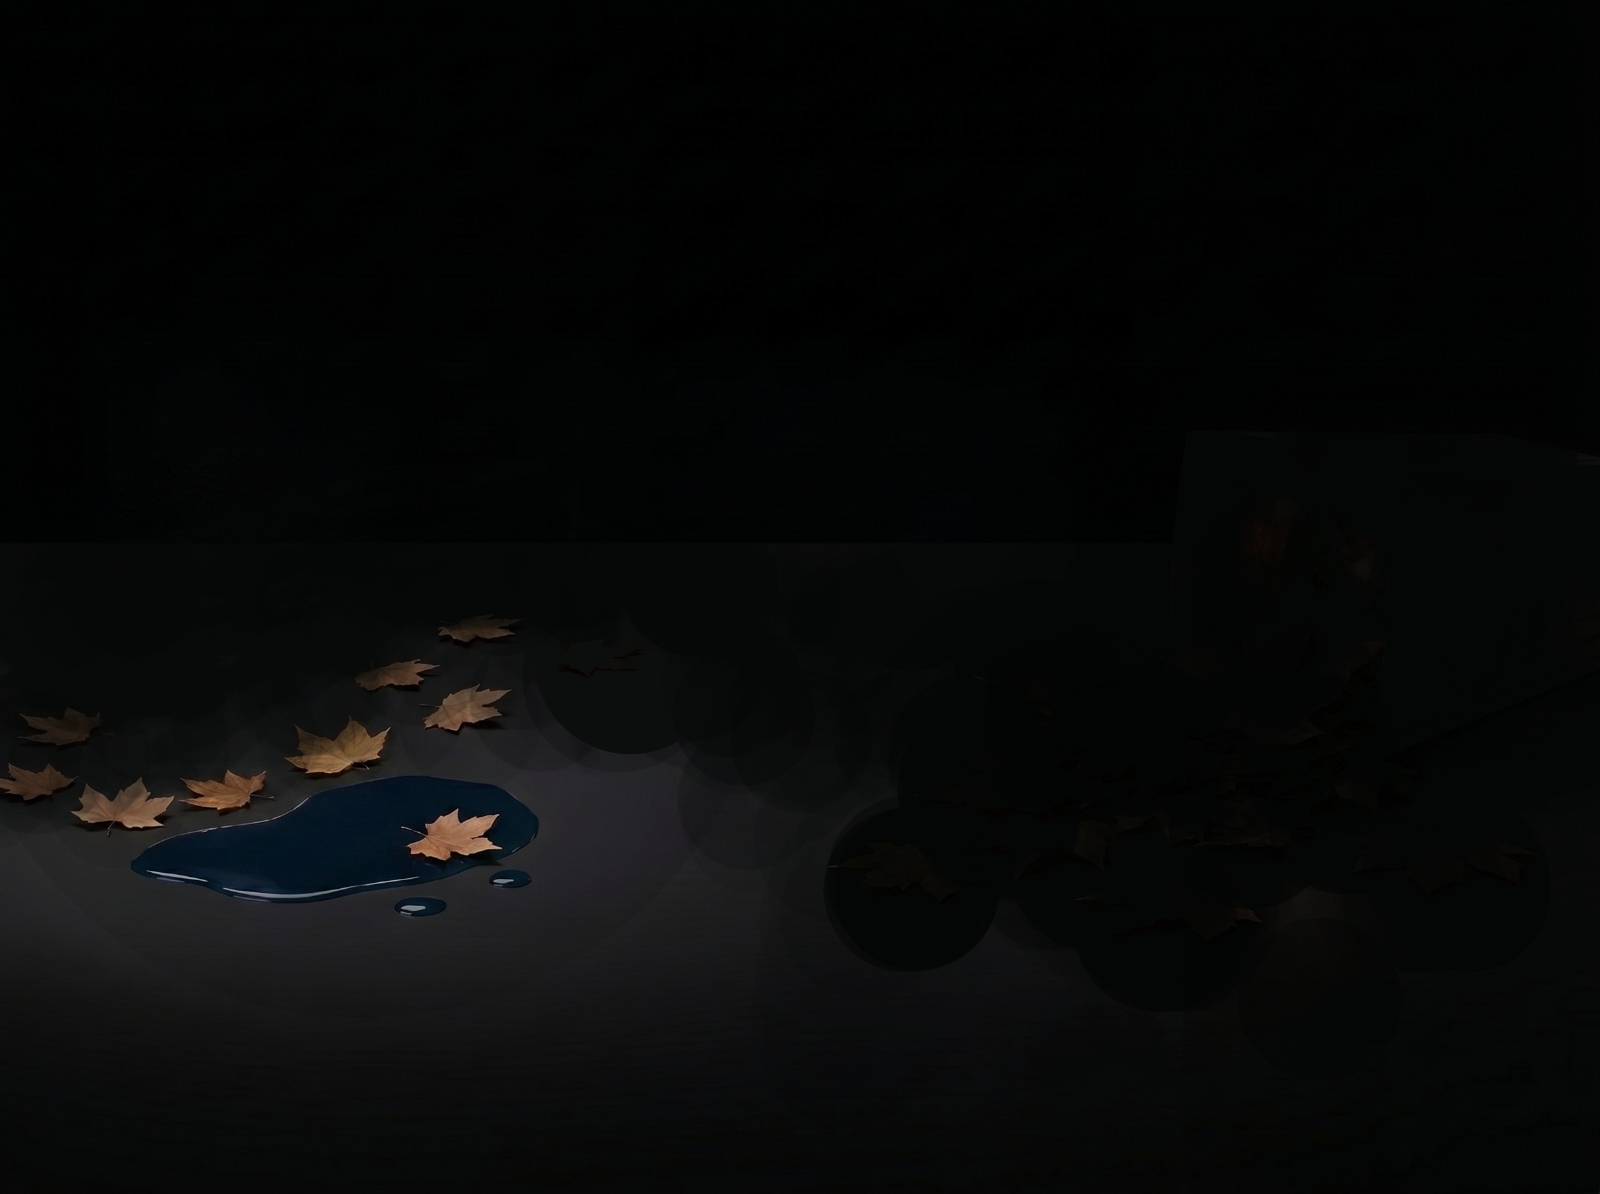
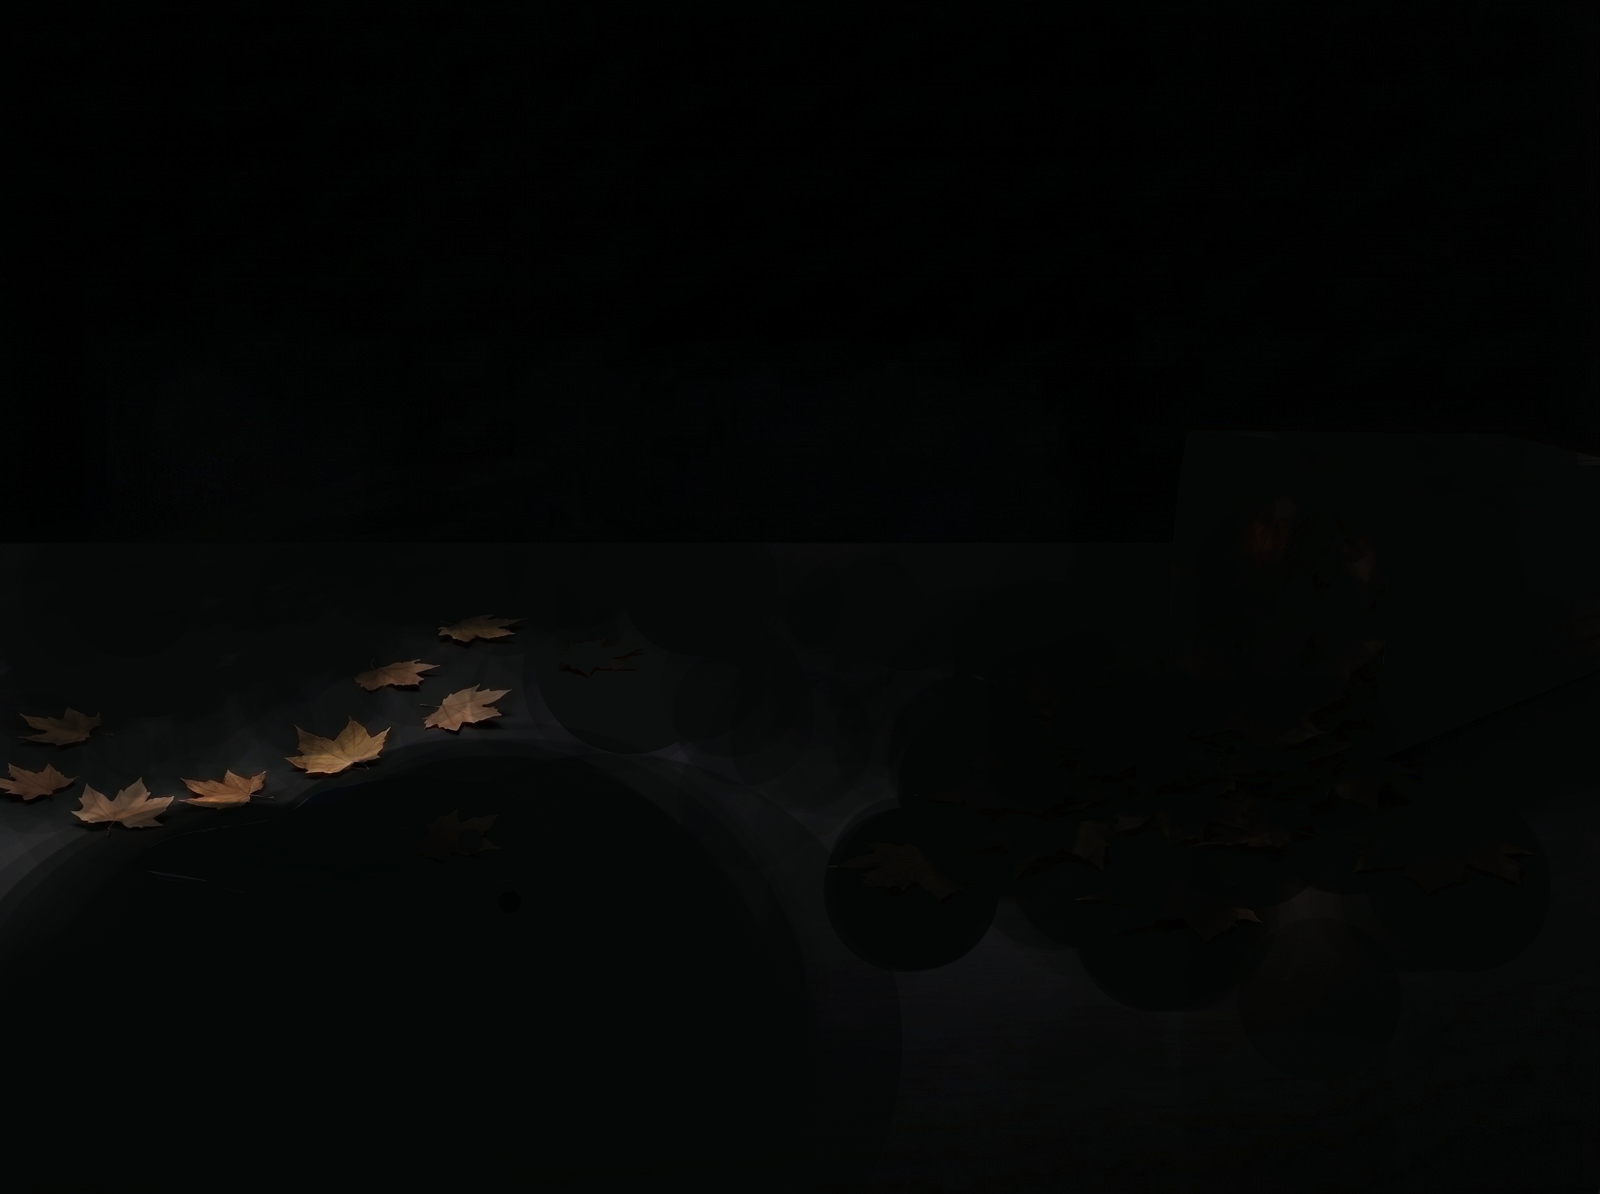
Pushing Nodemailer migration, SEO files, and GSC ownership verification

Changed region(s): [[0.0, 0.6198, 0.4688, 0.8367]]

diff --git a/app/api/feedback/route.ts b/app/api/feedback/route.ts
@@ -1,8 +1,6 @@
 import { NextResponse } from 'next/server';
-import { Resend } from 'resend';
+import nodemailer from 'nodemailer';
 import { supabase } from '../../../lib/supabaseClient';
-
-const resend = new Resend(process.env.RESEND_API_KEY);
 
 export async function POST(req: Request) {
   try {
@@ -18,10 +16,18 @@ export async function POST(req: Request) {
       return NextResponse.json({ error: 'Failed to store feedback: ' + supabaseError.message }, { status: 500 });
     }
 
-    // 2. Send email via Resend
-    const { data, error: resendError } = await resend.emails.send({
-      from: 'MemoryPrint Feedback <[email redacted]>', // Resend testing domain
-      to: ['[email redacted]'],
+    // 2. Send email via Nodemailer
+    const transporter = nodemailer.createTransport({
+      service: 'gmail',
+      auth: {
+        user: process.env.GMAIL_USER,
+        pass: process.env.GMAIL_APP_PASSWORD,
+      },
+    });
+
+    const mailOptions = {
+      from: `"MemoryPrint Feedback" <${process.env.GMAIL_USER}>`,
+      to: ['[email redacted]', '[email redacted]'],
       subject: 'New Feedback Received - MemoryPrint',
       html: `
         <h2>New Feedback Submission</h2>
@@ -33,14 +39,15 @@ export async function POST(req: Request) {
           ${message || 'No message provided'}
         </blockquote>
       `,
-    });
+    };
 
-    if (resendError) {
-      console.error('Resend error:', resendError);
-      return NextResponse.json({ error: 'Email failed: ' + resendError.message }, { status: 500 });
+    try {
+      const info = await transporter.sendMail(mailOptions);
+      return NextResponse.json({ success: true, data: info.messageId });
+    } catch (mailError: any) {
+      console.error('Nodemailer error:', mailError);
+      return NextResponse.json({ error: 'Email failed: ' + mailError.message }, { status: 500 });
     }
-
-    return NextResponse.json({ success: true, data });
   } catch (error) {
     console.error('API Error:', error);
     return NextResponse.json({ error: 'Internal Server Error' }, { status: 500 });

diff --git a/app/layout.tsx b/app/layout.tsx
@@ -48,8 +48,34 @@ const satisfy = Satisfy({
 });
 
 export const metadata: Metadata = {
-  title: "MemoryPrint — Your Polaroid Moments",
-  description: "Capture, print, and collect your Polaroid memories.",
+  title: {
+    template: '%s | MemoryPrint',
+    default: 'MemoryPrint - The Virtual Photo Booth',
+  },
+  description: 'An immersive, interactive virtual photo booth and digital memory board. Capture, customize, and save digital polaroids directly in your browser.',
+  keywords: ['virtual photo booth', 'digital polaroids', 'online scrapbooking', 'polaroid frame', 'photo strips'],
+  openGraph: {
+    title: 'MemoryPrint',
+    description: 'Bring the nostalgic charm of Polaroid cameras to your browser.',
+    url: 'https://memoryprint.app', // Using .app or whatever they host on
+    siteName: 'MemoryPrint',
+    images: [
+      {
+        url: '/og-image.png',
+        width: 1200,
+        height: 630,
+        alt: 'MemoryPrint Virtual Photo Booth',
+      },
+    ],
+    locale: 'en_US',
+    type: 'website',
+  },
+  twitter: {
+    card: 'summary_large_image',
+    title: 'MemoryPrint',
+    description: 'Capture, customize, and save digital polaroids directly in your browser.',
+    images: ['/og-image.png'],
+  },
 };
 
 export const viewport: Viewport = {
@@ -58,6 +84,8 @@ export const viewport: Viewport = {
   maximumScale: 1,
   viewportFit: "cover",
 };
+
+import { GoogleAnalytics } from '@next/third-parties/google';
 
 export default function RootLayout({
   children,
@@ -70,6 +98,7 @@ export default function RootLayout({
       className={`${geistSans.variable} ${geistMono.variable} ${patrickHand.variable} ${caveat.variable} ${permanentMarker.variable} ${indieFlower.variable} ${shadowsIntoLight.variable} ${satisfy.variable} h-full antialiased`}
     >
       <body className="min-h-full flex flex-col" suppressHydrationWarning>{children}</body>
+      <GoogleAnalytics gaId={process.env.NEXT_PUBLIC_GA_ID || "G-XXXXXXXXXX"} />
     </html>
   );
 }

diff --git a/app/fridge/page.tsx b/app/fridge/page.tsx
@@ -517,30 +517,7 @@ export default function FridgePage() {
     );
   }, [preset]);
 
-  useEffect(() => {
-    let lastShake = 0;
-    const threshold = 25;
-    const handleMotion = (e: DeviceMotionEvent) => {
-      const acc = e.accelerationIncludingGravity;
-      if (!acc) return;
-      const total = Math.abs(acc.x ?? 0) + Math.abs(acc.y ?? 0) + Math.abs(acc.z ?? 0);
-      if (total > threshold && Date.now() - lastShake > 1000) {
-        lastShake = Date.now();
-        shuffleCards();
-      }
-    };
-    const requestPermission = async () => {
-      if (typeof (DeviceMotionEvent as unknown as { requestPermission?: () => Promise<string> }).requestPermission === "function") {
-        try {
-          const result = await (DeviceMotionEvent as unknown as { requestPermission: () => Promise<string> }).requestPermission();
-          if (result !== "granted") return;
-        } catch { return; }
-      }
-      window.addEventListener("devicemotion", handleMotion);
-    };
-    requestPermission();
-    return () => window.removeEventListener("devicemotion", handleMotion);
-  }, [shuffleCards]);
+
 
   const handleSaveNote = async () => {
     const validTexts = noteTexts.filter((t) => t.text.trim());

diff --git a/app/sitemap.ts b/app/sitemap.ts
@@ -1,0 +1,20 @@
+import { MetadataRoute } from 'next'
+
+export default function sitemap(): MetadataRoute.Sitemap {
+  const baseUrl = 'https://memoryprint.app' // Assuming .app, change if hosted elsewhere!
+
+  return [
+    {
+      url: baseUrl,
+      lastModified: new Date(),
+      changeFrequency: 'monthly',
+      priority: 1.0, // Most important page
+    },
+    {
+      url: `${baseUrl}/fridge`,
+      lastModified: new Date(),
+      changeFrequency: 'weekly',
+      priority: 0.8, // Secondary page
+    },
+  ]
+}

diff --git a/app/robots.ts b/app/robots.ts
@@ -1,0 +1,13 @@
+import { MetadataRoute } from 'next'
+
+export default function robots(): MetadataRoute.Robots {
+  return {
+    rules: {
+      userAgent: '*', // '*' means these rules apply to all bots (Google, Bing, etc.)
+      allow: '/',
+      // Disallow any private API routes so bots don't hit them
+      disallow: ['/api/', '/private/'], 
+    },
+    sitemap: 'https://memoryprint.app/sitemap.xml', // Point bots directly to your sitemap
+  }
+}

diff --git a/app/page.tsx b/app/page.tsx
@@ -3,6 +3,7 @@
 import { useState, useRef, useCallback, useEffect, useMemo } from "react";
 import { motion, AnimatePresence } from "framer-motion";
 import Link from "next/link";
+import { sendGAEvent } from '@next/third-parties/google';
 
 function ConfettiBurst() {
   const pieces = useMemo(() => Array.from({ length: 40 }, (_, i) => {
@@ -435,6 +436,7 @@ export default function Home() {
   };
 
   const handleDownload = () => {
+    sendGAEvent('event', 'download_polaroid', { frame_used: frameColor });
     if (boothPhotos.length > 0) {
       handleStripDownload();
       return;
@@ -1805,7 +1807,10 @@ export default function Home() {
                 {FRAME_COLORS.map((f) => (
                   <button
                     key={f.key}
-                    onClick={() => setFrameColor(f.key)}
+                    onClick={() => {
+                      setFrameColor(f.key);
+                      sendGAEvent('event', 'change_frame_color', { value: f.key });
+                    }}
                     title={f.label}
                     style={{
                       width: frameColor === f.key ? 28 : 22,

diff --git a/app/FeedbackModal.tsx b/app/FeedbackModal.tsx
@@ -3,6 +3,7 @@
 import { useState } from "react";
 import { motion, AnimatePresence } from "framer-motion";
 import { supabase } from "../lib/supabaseClient";
+import { sendGAEvent } from '@next/third-parties/google';
 
 const MOOD_OPTIONS = [
   { emoji: "🤩", label: "Love it!", value: "love" },
@@ -79,6 +80,10 @@ export default function FeedbackModal({ open, onClose }: { open: boolean; onClos
 
       if (!response.ok) {
         console.error("Failed to submit feedback");
+      } else {
+        sendGAEvent('event', 'submit_feedback', {
+          feedback_type: 'app_feedback'
+        });
       }
     } catch (err: any) {
       console.error("Unexpected error:", err.message);

diff --git a/public/googleeadfb33f987b45f3.html b/public/googleeadfb33f987b45f3.html
@@ -1,0 +1,1 @@
+google-site-verification: googleeadfb33f987b45f3.html